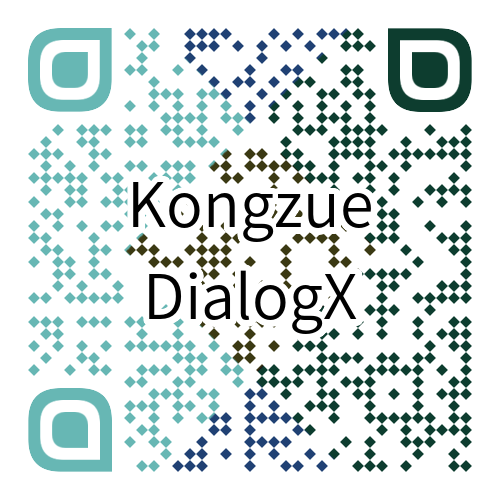
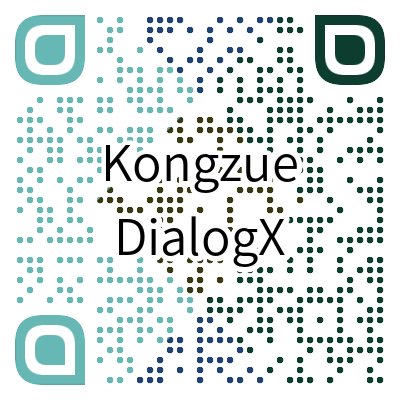
add feedback qrcode in readme

diff --git a/README.md b/README.md
@@ -110,6 +110,10 @@ implementation 'com.kongzue.dialogx:DialogX:0.0.2'
 
 具体的使用说明，请参阅 [DialogX Wiki](https://github.com/kongzue/DialogX/wiki/)
 
+反馈建议可以加讨论群：590498789
+
+<div align=center><img src="https://github.com/kongzue/DialogX/raw/master/readme/feedback_qrcode.png" alt="反馈 DialogX" width="250" height="250" /></div>
+
 # 开源协议
 
 DialogX 遵循 Apache License 2.0 开源协议。
